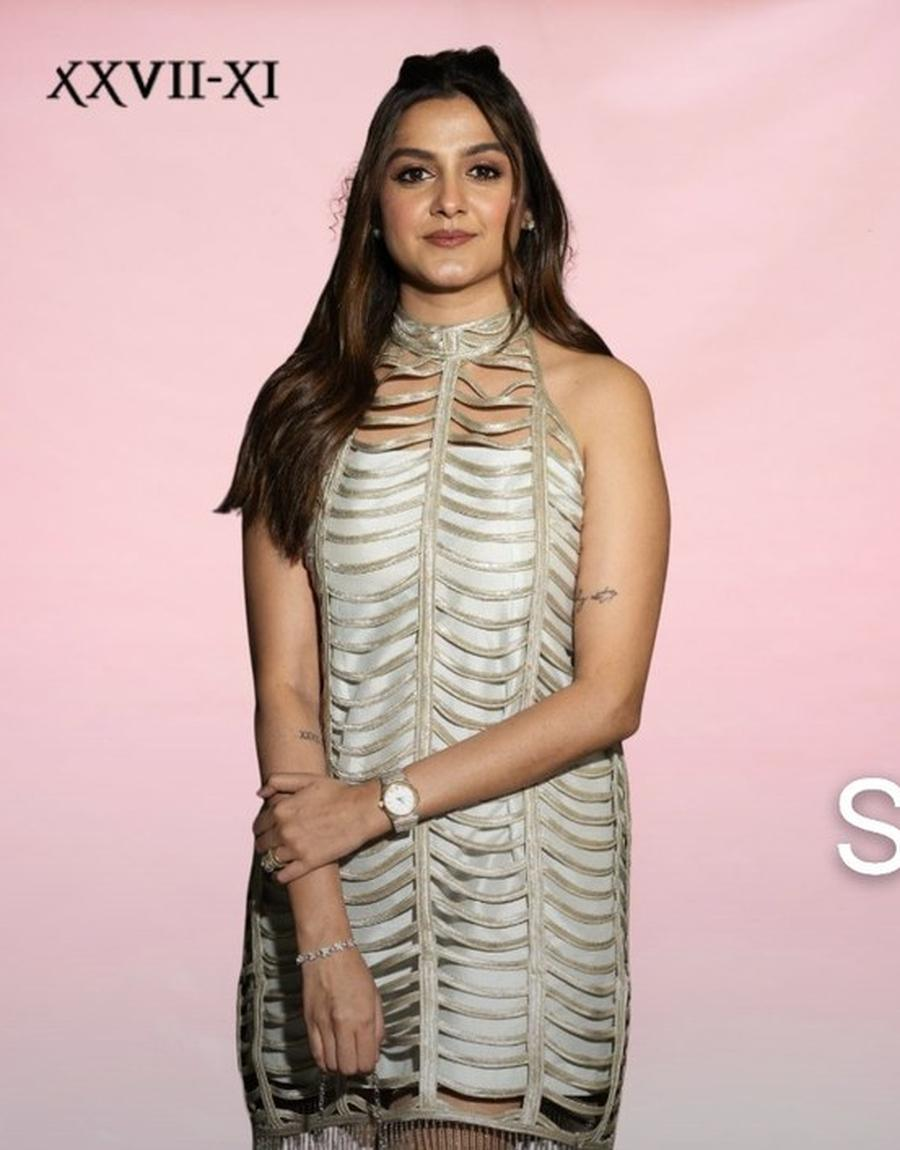
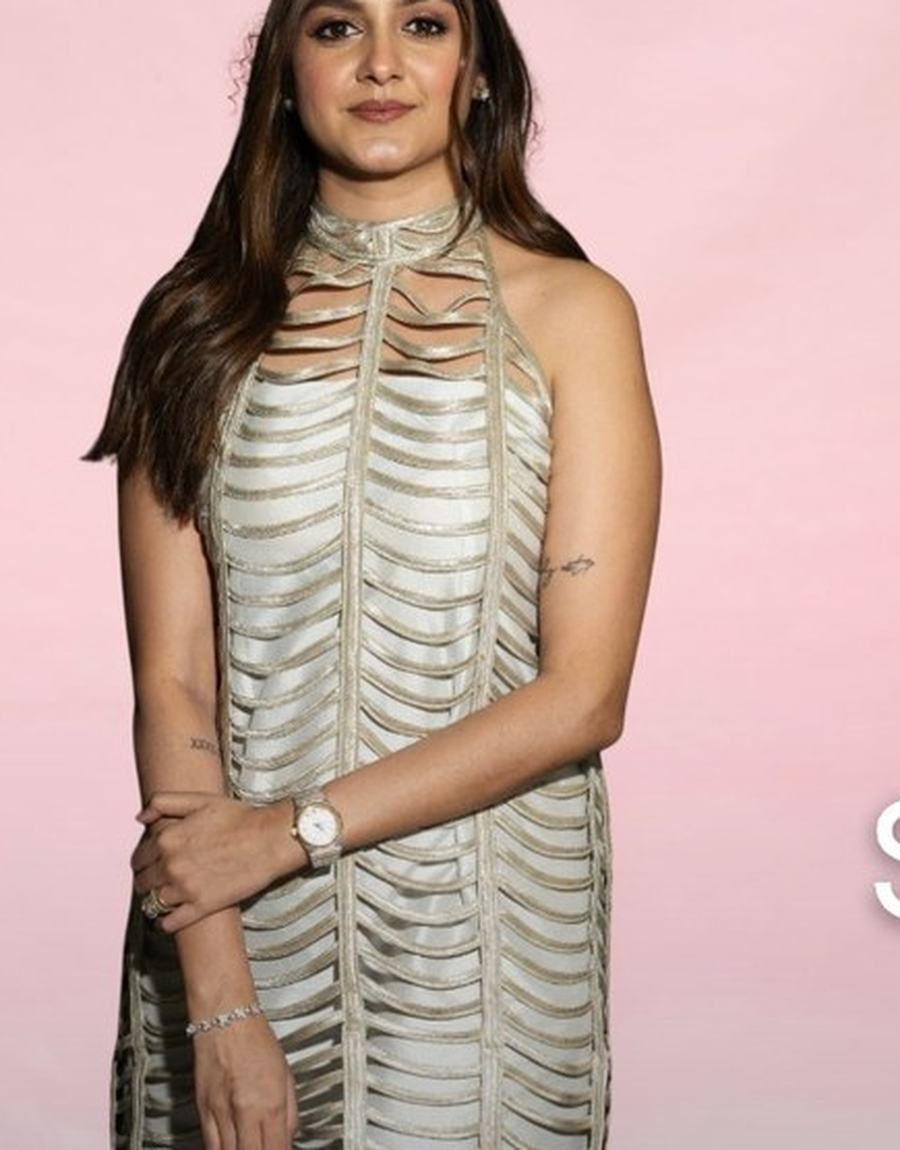
Re-crop the campaign images and enlarge the burger hit area
The made-to-measure image carried the banner's baked-in "SS'26 COLLECTION"
text and a second copy of the logo; all three editorial crops now avoid both.
Burger gets a 44px touch target, and a tile's Shop arrow no longer wraps
under a two-line collection name.

diff --git a/index.html b/index.html
@@ -131,7 +131,8 @@ button{font:inherit;color:inherit;background:none;border:0;cursor:pointer}
 .bag{display:inline-flex;align-items:baseline;gap:5px}
 .bag em{font-style:normal;font-size:9.5px;color:var(--rose);letter-spacing:0}
 
-.burger{display:none;flex-direction:column;gap:5px;width:22px}
+.burger{display:none;flex-direction:column;justify-content:center;gap:5px;
+  width:44px;height:44px;margin-left:-11px;padding:0 11px}
 .burger i{display:block;height:1px;background:currentColor;transition:transform .4s var(--ease)}
 
 .prog{height:1.5px;background:transparent}
@@ -226,7 +227,7 @@ section{padding-block:clamp(64px,8vw,116px)}
 .tile:hover img{transform:scale(1.045)}
 .tile .cap{display:flex;align-items:baseline;justify-content:space-between;gap:10px;padding-top:14px}
 .tile .cap span{letter-spacing:.2em}
-.tile .cap em{font-style:normal;color:var(--muted);font-size:10px;letter-spacing:.14em;transition:color .35s var(--ease),transform .45s var(--ease)}
+.tile .cap em{font-style:normal;white-space:nowrap;color:var(--muted);font-size:10px;letter-spacing:.14em;transition:color .35s var(--ease),transform .45s var(--ease)}
 .tile:hover .cap em{color:var(--rose);transform:translateX(4px)}
 
 /* ---------- product rail -------------------------------------------- */
